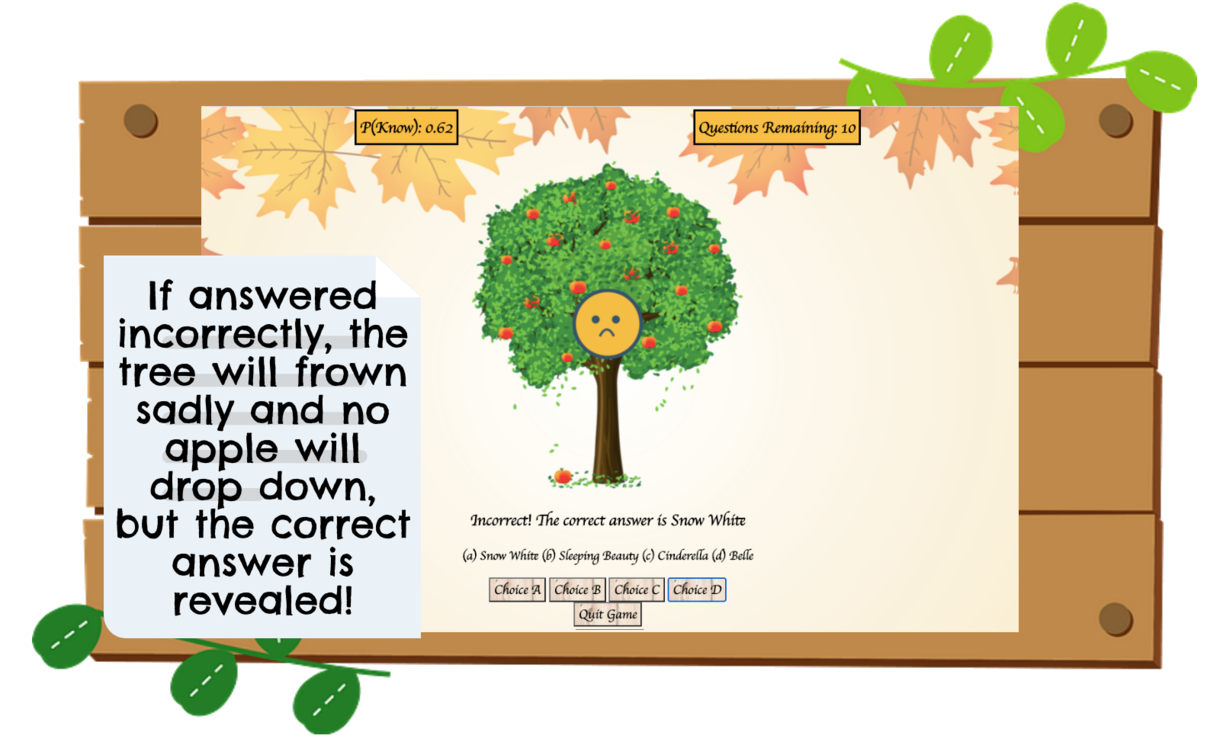
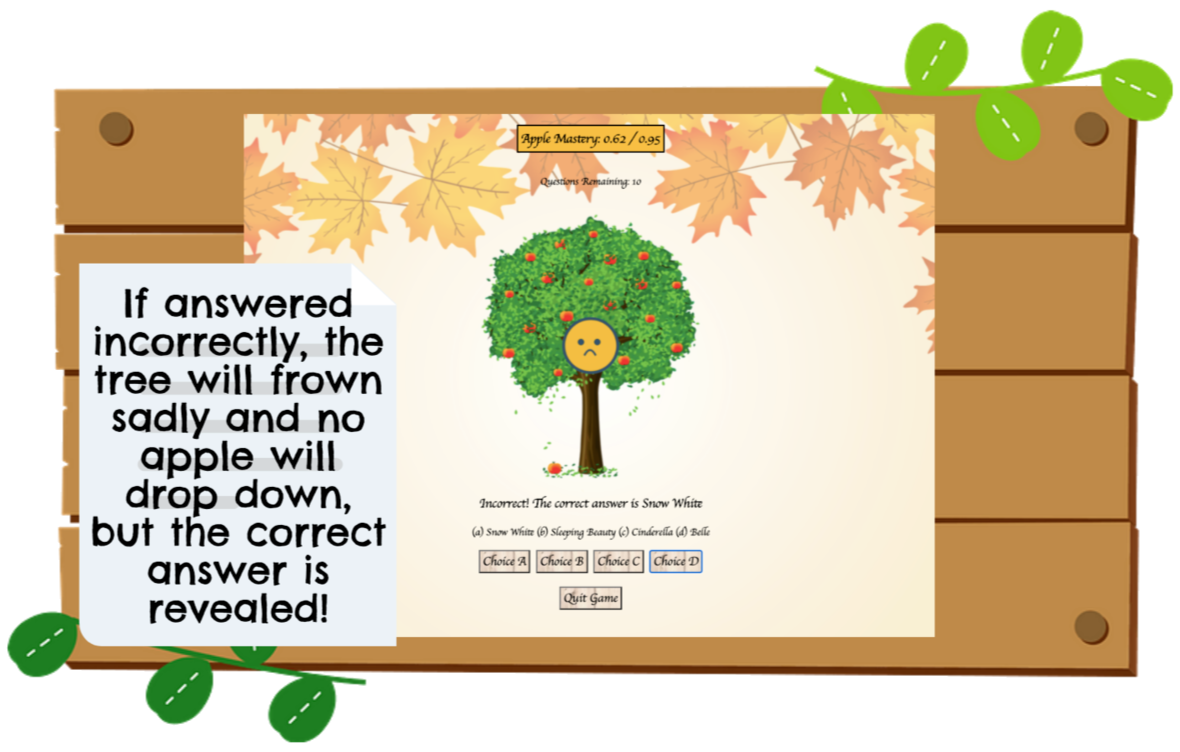
Final site edits

diff --git a/ApplePickingBKT/index.html b/ApplePickingBKT/index.html
@@ -8,7 +8,7 @@
     <div class="intro">
       <img src="title.png" alt="title image">
       <h2><i>What</i> Is BKT?</h2>
-      <p>Bayesian Knowledge Tracing (BKT for short) is an artificial intelligence algorithm used to predict if students have learned a skill based on their state of knowledge.</p>
+      <p>Bayesian Knowledge Tracing (BKT for short) is an artificial intelligence algorithm used to predict if students have learned a skill based on their state of knowledge. It uses parameters of students' prior knowledge, ability to learn the new material, probability of making a mistake, and probability of guessing on new concepts.</p>
 
       <h2><i>Why</i> Is It Useful?</h2>
       <p>BKT provides us with a means to advance users’ learning experiences to make them more engaging and are utilized through Open Learning Initiatives. It’s also a great tool for instructors to infer whether or not students are successful in their efforts and can improve their curriculum accordingly.</p>
@@ -65,7 +65,7 @@
         </div>
 
         <div id="pGuess-parent">
-          <h2>Please select how likely the question asked is encoded:</h2>
+          <h2>Please select how likely the question asked is written in gibberish:</h2>
           <br>
           <button type="button" class="pGuessButton">Low</button>
           <button type="button" class="pGuessButton">Med</button>
@@ -79,8 +79,8 @@
 
       <!-- mainGame is scene of actual gameplay -->
       <div id="mainGame" style="display: none">
-        <h2 id="pKnow" style="margin-right:350px">P(Know): 0.2</h2>
-        <h2 id="chances">Questions Remaining: </h2>
+        <h2 id="pKnow"></h2>
+        <h3 id="chances"></h3>
         <br>
         <img id="tree" src="graphics/appleTree.png" alt="neutral tree"  style="height: 500px; width: auto; position: relative">
         <h2 id = "questions"></h2>
@@ -89,7 +89,7 @@
           <button type="button" class="answerChoice">Choice B</button>
           <button type="button" class="answerChoice">Choice C</button>
           <button type="button" class="answerChoice">Choice D</button>
-          <br>
+          <br><br>
           <button type="button" class="wood" id="quit">Quit Game</button>
           <br>
       </div>

diff --git a/ApplePickingBKT/script.js b/ApplePickingBKT/script.js
@@ -19,7 +19,7 @@ presetButton.addEventListener("click", function() {
   document.getElementById('home').style.display = 'none'
 })
 
-//tutorial slides
+// //tutorial slides
 var slideIndex = 0
 var slideImages = []
 slideImages[0] = "tutorial/slide1.png"
@@ -528,7 +528,7 @@ function firstQuestion() {    //loads first question
       questionSpace.innerHTML = hard[currentQuestion].question
       choiceSpace.innerHTML = hard[currentQuestion].choices
   }
-  pKnowSpace.innerHTML = "P(Know): " + knowValue
+  pKnowSpace.innerHTML = "Apple Mastery: " + knowValue + " / 0.95"
   chanceSpace.innerHTML = "Questions Remaining: " + (10-temp)
   //enables all answer choices
   buttonA.disabled = false;
@@ -620,7 +620,7 @@ function updatePKnow(correct) {
     var w = (knowValue * slipValue) / ((knowValue * slipValue) + (knowValue_c * guessValue_c))
     knowValue =  w + (1.0 - w) * learnValue
   }
-  pKnowSpace.innerHTML = "P(Know): " + knowValue.toFixed(2)
+  pKnowSpace.innerHTML = "Apple Mastery: " + knowValue.toFixed(2) + " / 0.95"
 }
 
 //--------helper function to update the question asked

diff --git a/ApplePickingBKT/stylesheet.css b/ApplePickingBKT/stylesheet.css
@@ -21,7 +21,7 @@ body {
   margin: 0px 3px;
 }
 
-#pKnow, #chances {
+#pKnow{
   font-weight: bolder;
   display:inline-block;
   background-color: #ffbe00;
